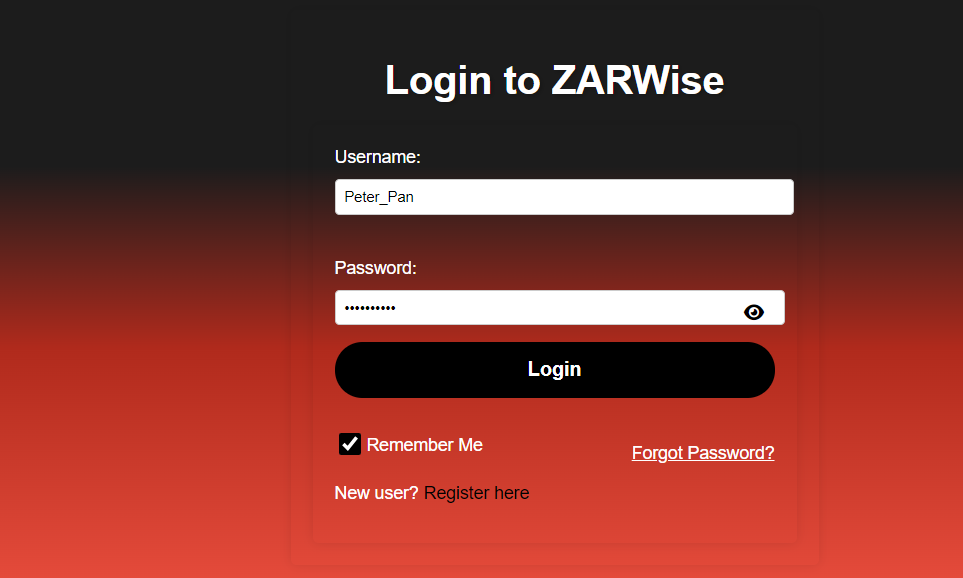
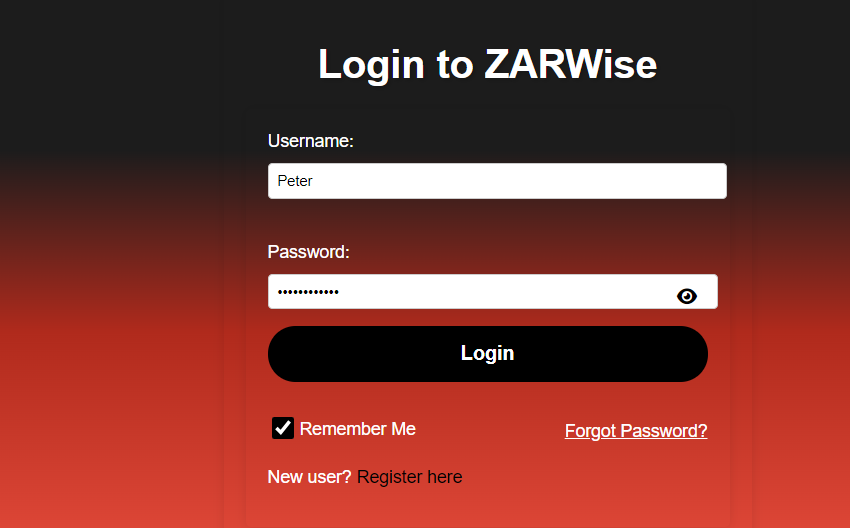
Adjust margin for forgot password link styling in style.css

diff --git a/frontend/public/style.css b/frontend/public/style.css
@@ -133,7 +133,7 @@ input:invalid {
 
 /* Forgot password link styling */
 .forgot-password-link {
-    margin-top: 10px;
+    margin-top: -1px;
     color: white;
 }
 
